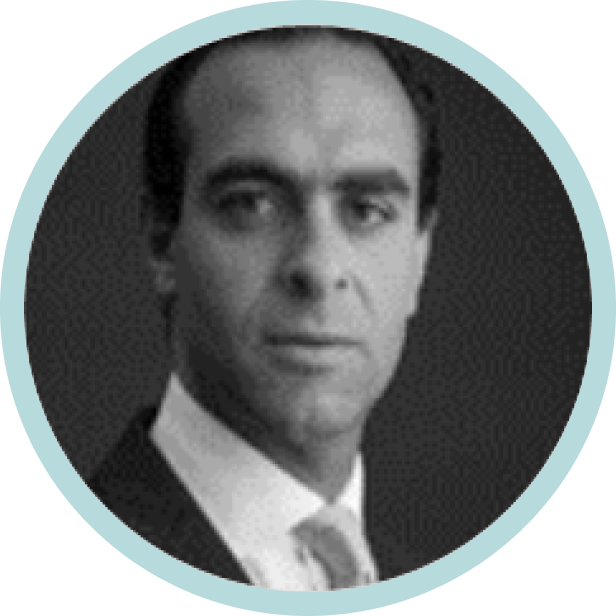
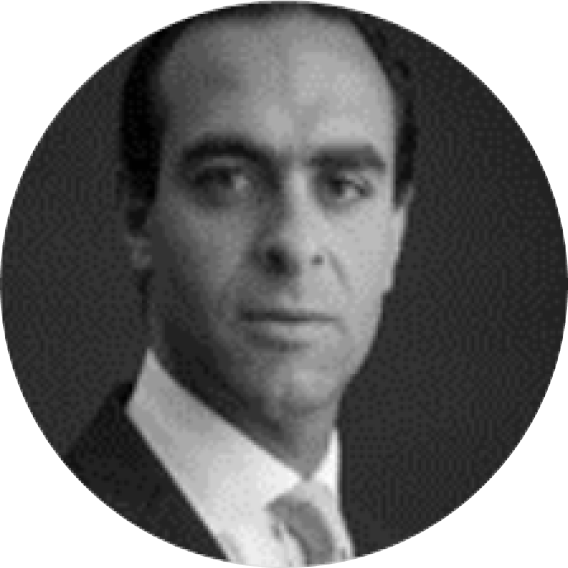
code merge

diff --git a/src/components/common/CommonTeam.jsx b/src/components/common/CommonTeam.jsx
@@ -1,40 +1,46 @@
-import React from "react";
+import React, { useEffect, useState } from "react";
 import { Col, Container, Row } from "react-bootstrap";
 import { useLocation } from "react-router-dom";
 import { sporticoseTeam } from "./Helper2";
 
 const CommonTeam = () => {
   const location = useLocation();
+  const [about, setAbout] = useState(false);
+  useEffect(() => {
+    setAbout(location.pathname === "/about-us");
+  }, [location.pathname]);
   return (
     <>
       <Container>
-        <div className="py-5">
+        <div className={`${about ? "py-lg-5 mb-4" : ""}`}>
           {sporticoseTeam.map((teams) => {
             const commonteamchange =
               teams.id === teams.id && location.pathname === teams.path;
             return commonteamchange ? (
-              <div key={teams.id}>
-                <div className="text-center ">
-                  <h2 className="ff-fontspring fw-semibold fs-xxl text-black">
+              <div className="pb-5" key={teams.id}>
+                <div className="text-center mb-5">
+                  <h2 className="ff-fontspring fw-semibold fs-xxl text-black mb-0">
                     {teams.mainheading}
                   </h2>
                   {commonteamchange?.para && (
-                    <p className="pt-2 mt-1 fw-normal ffBarlow fs-base text-black opacity-07">
+                    <p className="pt-2 mt-1 fw-normal ffBarlow fs-base text-black opacity-07 mb-0">
                       {teams.para}
                     </p>
                   )}
                 </div>
-                <Row>
+                <Row className="mb-5">
                   <Col md={6}>
                     <div className="common_team_card_shadow p-4 h-100 transition-300">
                       <div className="d-flex  align-items-center">
-                        <img
-                          width={142}
-                          height={142}
-                          className="transition-300"
-                          src={teams.manimg}
-                          alt="founder img"
-                        />
+                        <div className="common_team_border">
+                          <img
+                            width={142}
+                            height={142}
+                            className="transition-300"
+                            src={teams.manimg}
+                            alt="founder img"
+                          />
+                        </div>
                         <div className="text-start ps-4 ms-2">
                           <h3 className="ff-fontspring fs-lg clr_lite_green fw-normal">
                             {teams.heading}
@@ -52,13 +58,15 @@ const CommonTeam = () => {
                   <Col md={6}>
                     <div className="common_team_card_shadow p-4 h-100 transition-300">
                       <div className="d-flex  align-items-center">
-                        <img
-                          width={142}
-                          height={142}
-                          className="transition-300"
-                          src={teams.girlImg}
-                          alt="founder img"
-                        />
+                        <div className="common_team_border">
+                          <img
+                            width={142}
+                            height={142}
+                            className="transition-300"
+                            src={teams.girlImg}
+                            alt="founder img"
+                          />
+                        </div>
                         <div className="text-start ps-4 ms-2">
                           <h3 className="ff-fontspring fs-lg clr_blue fw-normal">
                             {teams.heading2}

diff --git a/src/App.css b/src/App.css
@@ -55,7 +55,7 @@ input:-webkit-autofill:hover,
 input:-webkit-autofill:focus,
 input:-webkit-autofill:active {
     -webkit-background-clip: text;
-    -webkit-text-fill-color: var(--clr-gray);
+    -webkit-text-fill-color: black;
     -webkit-transition: background-color 5000s ease-in-out 0s;
     transition: background-color 5000s ease-in-out 0s;
 }
@@ -170,6 +170,19 @@ input:-webkit-autofill:active {
 .common_team_card_shadow:hover {
     box-shadow: 0px 0px 33px -4px rgba(0, 0, 0, 0.12);
     border: 1px solid transparent;
+}
+
+.common_team_border {
+    border-radius: 142px;
+    border: 6px solid rgba(0, 117, 242, 0.38);
+    background: lightgray 50% / cover no-repeat;
+    transition: 0.3s ease-in-out;
+}
+
+.common_team_card_shadow:hover .common_team_border {
+
+    border: 6px solid rgba(66, 158, 166, 0.38);
+    background: lightgray 50% / contain no-repeat, #D9D9D9;
 }
 
 /* media quarry */
